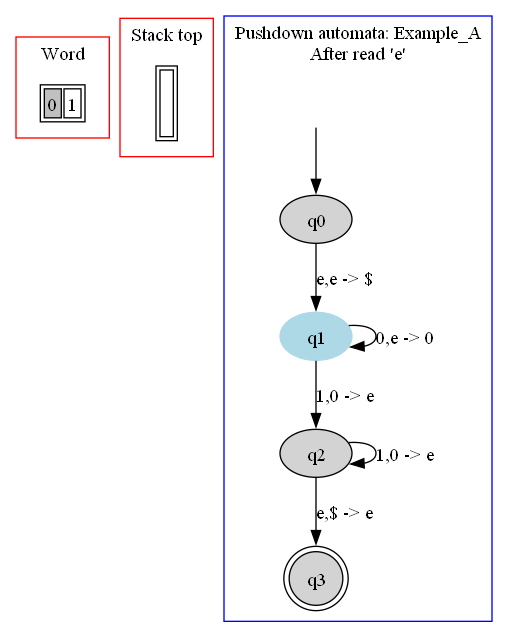
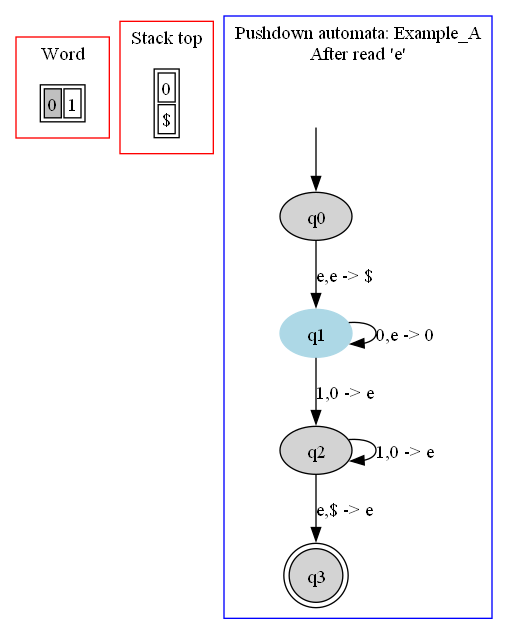
Feito caso inicial

diff --git a/PA/automataexecution.cpp b/PA/automataexecution.cpp
@@ -18,7 +18,16 @@ void AutomataExecution::reset_indexes()
     this->word = "";
 }
 
-
+char AutomataExecution::getTopCharInStack()
+{
+    if (this->char_stack.length() == 0)
+        return 'e';
+    else
+    {
+        char b = this->char_stack.back();
+        return b;
+    }
+}
 
 bool AutomataExecution::process_word(const std::string &word)
 {
@@ -28,18 +37,28 @@ bool AutomataExecution::process_word(const std::string &word)
 
     draw_automata_considering_input("Before to read any input");
 
+    int wordLen =  word.length();
+    std::cout << "wordLen: " << wordLen << std::endl;
+    std::cout << "this->id_of_processed_char_input: " << this->id_of_processed_char_input << std::endl;
+
     for (
-         this->id_of_processed_char_input = 0;
-         this->id_of_processed_char_input < word.size();
-         this->id_of_processed_char_input++
+         //this->id_of_processed_char_input = 0
+         ;
+         this->id_of_processed_char_input < wordLen;
+         //this->id_of_processed_char_input++
     )
     {
+        std::cout << "? "<< std::endl;
+
+        std::cout << "Stack '" << this->char_stack << "'" << std::endl;
+
         //Get all of the possible transitions
         std::vector<TransitionPossibility> possibleTransitions = getAvailableTransitions
         (
             this->current_state,
-            this->char_stack.back(),
-            word[this->id_of_processed_char_input]
+            //this->char_stack.back(),
+            getTopCharInStack(),
+            word[this->id_of_processed_char_input+1]
         );
 
         std::cout << "Quant de transitions: " << possibleTransitions.size() << std::endl;
@@ -72,15 +91,31 @@ bool AutomataExecution::process_word(const std::string &word)
 
             this->current_state = chosen.destiny_state;
 
-            if (chosen.transition.topOfStackSymbolToBeReplaced == 'e' &&
+            if (chosen.transition.inputSymbol == 'e' &&
+                chosen.transition.topOfStackSymbolToBeReplaced == 'e')
+            {
+                if (chosen.transition.topOfStackSymbolToReplace != 'e')
+                {
+                    //this->id_of_processed_char_input++;
+                    this->char_stack.push_back(chosen.transition.topOfStackSymbolToReplace);
+                }
+            }
+            else if (chosen.transition.topOfStackSymbolToBeReplaced == 'e' &&
                 chosen.transition.topOfStackSymbolToReplace == 'e')
             {} //nada a fazer
             else if (chosen.transition.topOfStackSymbolToReplace == 'e')
             {
+                this->id_of_processed_char_input++;
                 this->char_stack.pop_back();
+            }
+            else if (chosen.transition.topOfStackSymbolToBeReplaced == 'e')
+            {
+                this->id_of_processed_char_input++;
+                this->char_stack.push_back(chosen.transition.topOfStackSymbolToReplace);
             }
             else
             {
+                this->id_of_processed_char_input++;
                 this->char_stack[this->char_stack.size()-1] =
                    chosen.transition.topOfStackSymbolToReplace;
             }

diff --git a/PA/automataexecution.h b/PA/automataexecution.h
@@ -15,6 +15,8 @@ public:
 
     bool process_word(const std::string& word);
 
+    char getTopCharInStack();
+
     bool test1_remove_later(const std::string &word);
 
 private:
